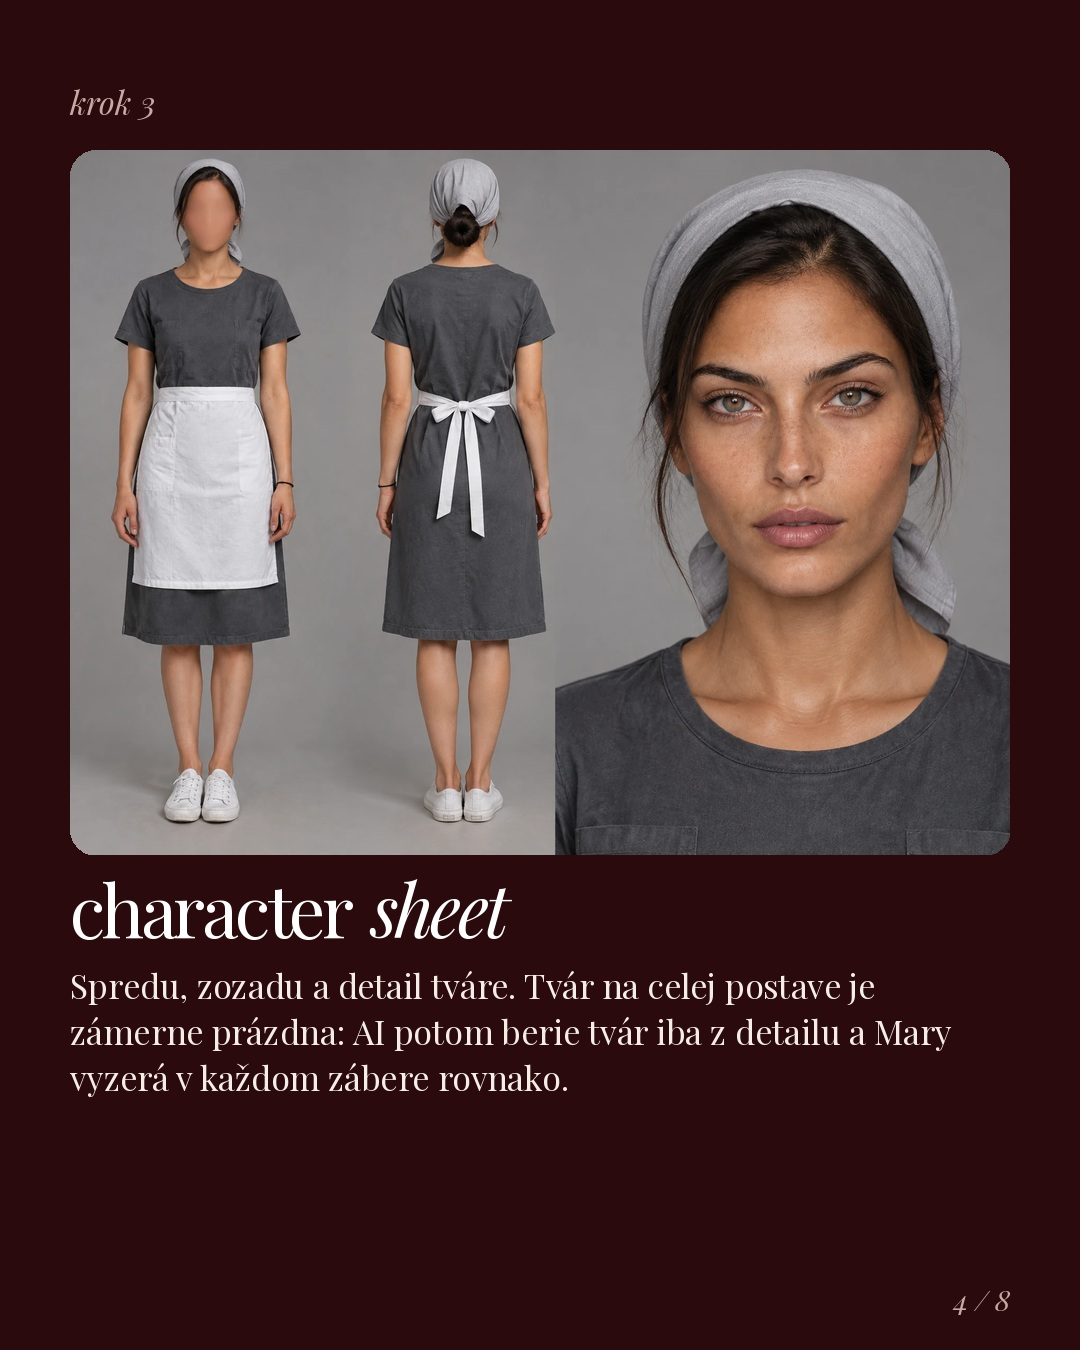
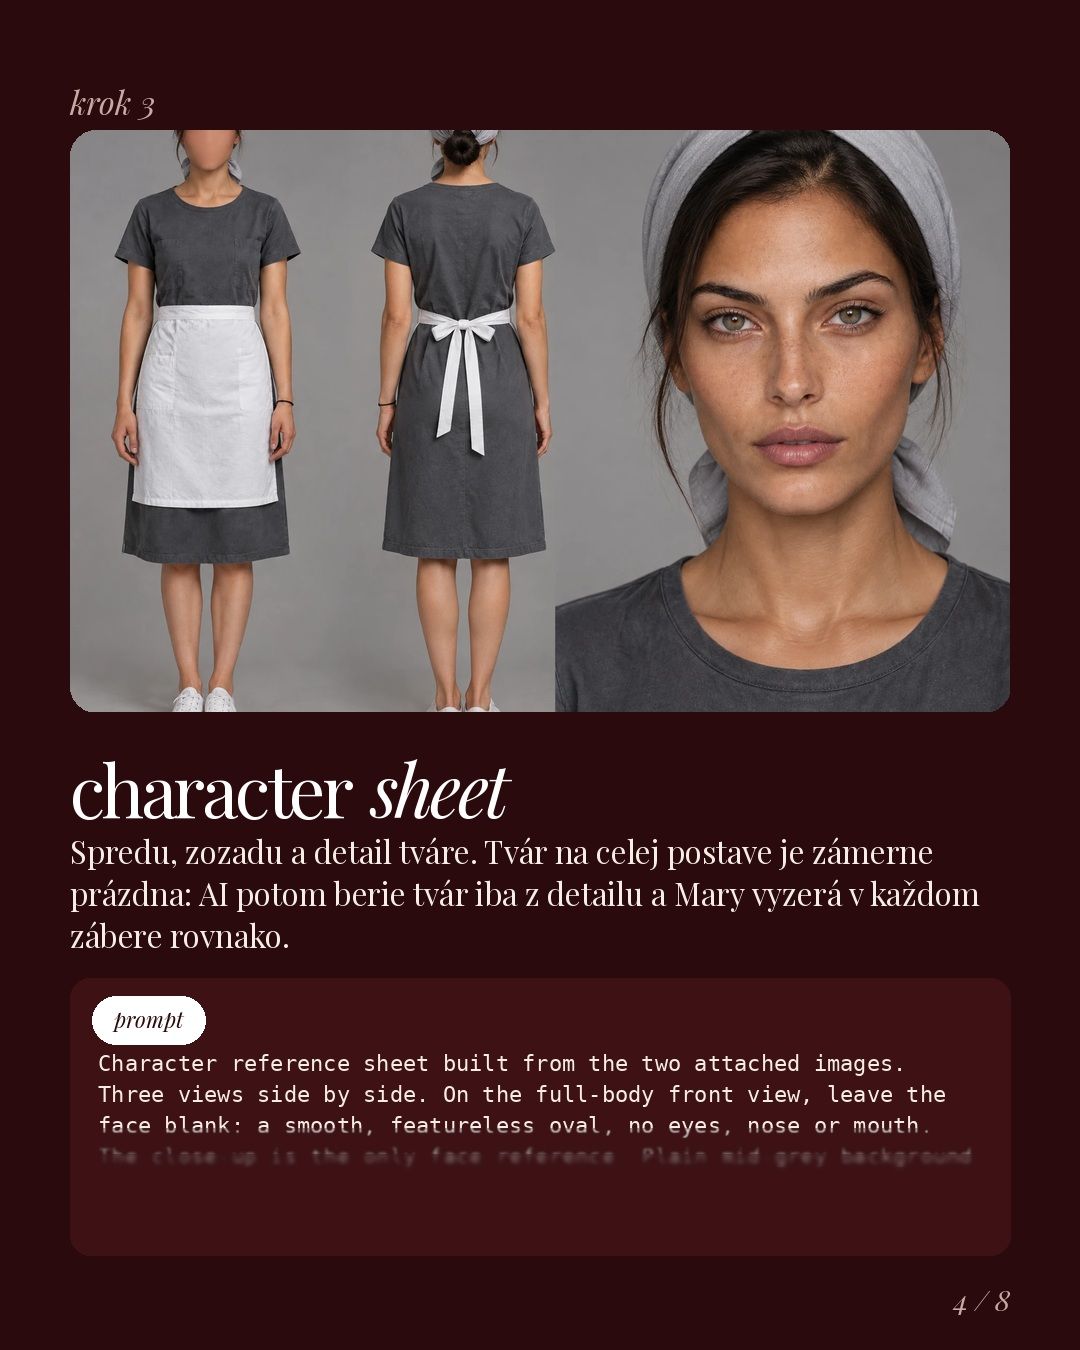
Carousel: fading prompt snippets and empty lab image
Claude-Session: https://claude.ai/code/session_01V7eewTBLeZf5PbeNWHhYvV

diff --git a/tools/carousel.py b/tools/carousel.py
@@ -88,15 +88,65 @@ def shade(canvas, top):
     canvas.paste(layer, (0, 0), alpha)
 
 
-def slide_photo_text(src, out, n, total, step, title, text, focus=(0.5, 0.5), label=None):
+MONO = "/usr/share/fonts/truetype/dejavu/DejaVuSansMono.ttf"
+
+
+def prompt_card(canvas, top, bottom, text, px=22):
+    """Kúsok skutočného promptu: hore čitateľný, smerom nadol sa rozmaže a stratí."""
+    x0, x1 = MARGIN, W - MARGIN
+    ImageDraw.Draw(canvas).rounded_rectangle((x0, top, x1, bottom), radius=20, fill=(62, 18, 21))
+    pill(ImageDraw.Draw(canvas), (x0 + 22, top + 18), "prompt", px=22)
+
+    f = ImageFont.truetype(MONO, px)
+    width = x1 - x0 - 56
+    lines, line = [], ""
+    for word in text.split():
+        trial = (line + " " + word).strip()
+        if f.getlength(trial) > width and line:
+            lines.append(line)
+            line = word
+        else:
+            line = trial
+    lines.append(line)
+
+    area_top = top + 72
+    area_h = bottom - area_top - 14
+    layer = Image.new("RGBA", (x1 - x0, area_h), (0, 0, 0, 0))
+    ld = ImageDraw.Draw(layer)
+    y = 0
+    for ln in lines:
+        if y > area_h:
+            break
+        ld.text((28, y), ln, font=f, fill=CREAM + (255,))
+        y += int(px * 1.45)
+
+    bands = 14
+    band_h = max(1, area_h // bands)
+    out = Image.new("RGBA", layer.size, (0, 0, 0, 0))
+    for b in range(bands):
+        t = b / (bands - 1)
+        radius = 0 if t < 0.38 else (t - 0.38) / 0.62 * 7
+        alpha = 1.0 if t < 0.45 else max(0.0, 1 - (t - 0.45) / 0.55)
+        blurred = layer.filter(ImageFilter.GaussianBlur(radius)) if radius else layer
+        box = (0, b * band_h, layer.width, area_h if b == bands - 1 else (b + 1) * band_h)
+        piece = blurred.crop(box)
+        a = piece.split()[3].point(lambda v, k=alpha: int(v * k))
+        piece.putalpha(a)
+        out.alpha_composite(piece, (0, box[1]))
+    canvas.paste(out, (x0, area_top), out)
+
+
+def slide_photo_text(src, out, n, total, step, title, text, focus=(0.5, 0.5), label=None, prompt=None):
     c = Image.new("RGB", (W, H), WINE)
-    photo(c, src, (MARGIN, MARGIN, W - MARGIN, 820), focus)
+    photo(c, src, (MARGIN, MARGIN, W - MARGIN, 680), focus)
     d = ImageDraw.Draw(c)
     if label:
-        pill(d, (MARGIN + 24, 820 - 80), label)
-    d.text((MARGIN, 862), step, font=font("i", 32), fill=(200, 170, 165))
-    y = headline(d, (MARGIN, 905), title, 72)
-    body(d, (MARGIN, y + 34), text)
+        pill(d, (MARGIN + 24, 680 - 80), label)
+    d.text((MARGIN, 712), step, font=font("i", 32), fill=(200, 170, 165))
+    y = headline(d, (MARGIN, 752), title, 66)
+    y = body(d, (MARGIN, y + 22), text, px=31)
+    if prompt:
+        prompt_card(c, y + 22, H - 95, prompt)
     page_no(d, n, total)
     c.save(out, quality=94)
 
@@ -119,22 +169,35 @@ def build(src, out_dir):
                      [[("tvár", "r"), ("z castingu", "i")]],
                      "Jeden prompt, šesť rôznych fiktívnych žien. Štýl módnych magazínov "
                      "z rokov 2000–2005: filmové zrno, mäkké svetlo, viditeľné póry. Vybrala som Mary.",
-                     focus=(0.5, 0.35), label="prompt → 6 tvárí")
+                     focus=(0.5, 0.35), label="1 prompt = 6 tvárí",
+                     prompt="Create a single standalone photographic face-reference portrait, one woman only, "
+                            "head and shoulders, vertical 3:4. Casting selection: each output shows a different "
+                            "fictional adult brunette woman, age 24-28, striking early-2000s high-fashion "
+                            "supermodel looks, natural facial asymmetry, preserve visible pores, organic film grain")
     slide_photo_text(f"{src}/outfit.jpg", f"{out_dir}/03.jpg", 3, total, "krok 2",
                      [[("oblečenie", "r"), ("zvlášť", "i")]],
                      "Uniforma vznikla ako samostatná fotka, bez tváre. Tak sa tvár a "
                      "oblečenie nemiešajú a každé sa dá meniť samostatne.",
-                     focus=(0.5, 0.15))
+                     focus=(0.5, 0.15),
+                     prompt="Clothing reference photo, framed from the shoulders to the feet, the head out of "
+                            "frame. A young slim woman wearing a plain charcoal-grey short-sleeved cotton work "
+                            "dress, a crisp white cotton apron tied at the waist, white low-top canvas sneakers, "
+                            "plain light grey studio wall, even soft light from the front-left, photorealistic fabric texture, "
+                            "visible cotton weave, soft natural wrinkles, modest working-class look")
 
     # 4 · character sheet (široký obrázok, iná kompozícia)
     c = Image.new("RGB", (W, H), WINE)
-    photo(c, f"{src}/sheet.webp", (MARGIN, 150, W - MARGIN, 150 + int((W - 2 * MARGIN) * 0.75)), focus=(0.5, 0.5))
+    photo(c, f"{src}/sheet.webp", (MARGIN, 130, W - MARGIN, 130 + int((W - 2 * MARGIN) * 0.62)), focus=(0.5, 0.5))
     d = ImageDraw.Draw(c)
     d.text((MARGIN, 80), "krok 3", font=font("i", 32), fill=(200, 170, 165))
-    y = headline(d, (MARGIN, 860), [[("character", "r"), ("sheet", "i")]], 72)
-    body(d, (MARGIN, y + 34),
-         "Spredu, zozadu a detail tváre. Tvár na celej postave je zámerne prázdna: "
-         "AI potom berie tvár iba z detailu a Mary vyzerá v každom zábere rovnako.")
+    y = headline(d, (MARGIN, 740), [[("character", "r"), ("sheet", "i")]], 72)
+    y = body(d, (MARGIN, y + 22), px=31, text=
+             "Spredu, zozadu a detail tváre. Tvár na celej postave je zámerne prázdna: "
+             "AI potom berie tvár iba z detailu a Mary vyzerá v každom zábere rovnako.")
+    prompt_card(c, y + 22, H - 95,
+                "Character reference sheet built from the two attached images. Three views side by side. "
+                "On the full-body front view, leave the face blank: a smooth, featureless oval, no eyes, "
+                "nose or mouth. The close-up is the only face reference. Plain mid-grey background")
     page_no(d, 4, total)
     c.save(f"{out_dir}/04.jpg", quality=94)
 
@@ -142,17 +205,31 @@ def build(src, out_dir):
                      [[("svet", "r"), ("okolo nej", "i")]],
                      "Sterilné biele laboratórium parížskeho parfumérskeho domu. "
                      "Jantárové fľaštičky sú jediná teplá farba v miestnosti.",
-                     focus=(0.5, 0.5))
+                     focus=(0.42, 0.5),
+                     prompt="Interior of a modern, sterile, pristine white perfume laboratory, wide three-quarter "
+                            "view, an empty room. Back wall: a long built-in perfume organ, white lacquered "
+                            "shelving in a gentle curve, hundreds of small amber glass bottles; the amber glass "
+                            "is the only warm color in the room. Floor: large polished white porcelain tiles with a subtle "
+                            "mirror-like reflection. Cool-neutral light, 5600K, soft daylight from the left")
     slide_photo_text(f"{src}/scene.jpg", f"{out_dir}/06.jpg", 6, total, "krok 5",
                      [[("a potom", "r"), ("hrá", "i")]],
                      "Sheet + laboratórium + presný prompt so strihmi, uhlami kamery a "
                      "replikami. Z toho vznikne scéna s hlasom a hereckým výkonom.",
-                     focus=(0.62, 0.4), label="Seedance")
+                     focus=(0.62, 0.4), label="Seedance",
+                     prompt="SCENE CONTEXT: a 7-second final scene in a pristine white Parisian perfume "
+                            "laboratory. Alone with Mary, Lucien quietly reveals that he has lost his sense of "
+                            "smell. FORMAT MODE: one continuous shot, the camera does not cut on its own. OPTICS: eye-level "
+                            "close two-shot, 29° field of view, a gentle push forward of 10 cm over seven seconds. ACTION: "
+                            "Lucien offers the scented strip, Mary raises it below her nose")
     slide_photo_text(f"{src}/fail.jpg", f"{out_dir}/07.jpg", 7, total, "keď AI zlyhá",
                      [[("Mary s tvárou", "r")], [("asistenta", "i")]],
                      "Zlé poradie obrázkov a AI dala Mary tvár Théa. Oprava: vždy iba tie "
                      "postavy, ktoré sú v scéne, a v správnom poradí.",
-                     focus=(0.5, 0.3), label="chyba")
+                     focus=(0.5, 0.3), label="chyba",
+                     prompt="@image2: Mary, a 24-year-old young woman, cleaner. Match her female face from the "
+                            "close-up portrait panel. The blank faces on the full-body panels serve only as body "
+                            "and wardrobe guides. Exactly two people. Mary keeps her headscarf throughout. The laboratory from "
+                            "@image1 is visible behind them in every frame")
 
     # 8 · výzva
     c = Image.new("RGB", (W, H), WINE)
